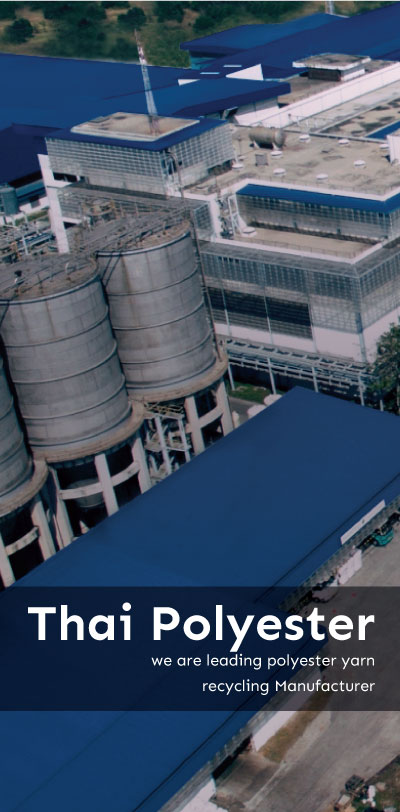
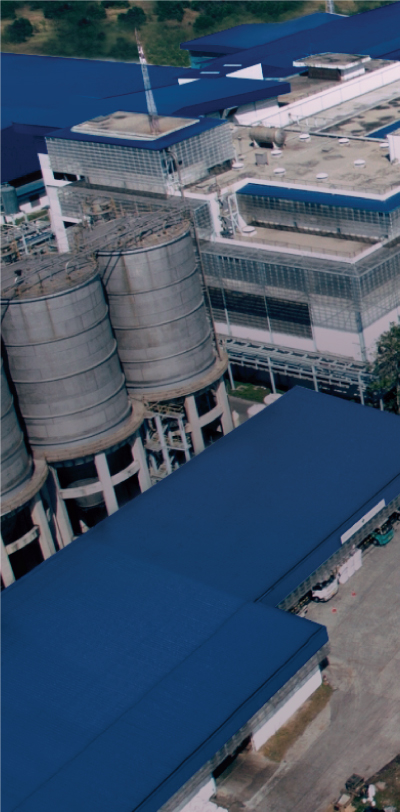
23-03-2022 11:11 By Boat

diff --git a/public/css/index.css b/public/css/index.css
@@ -40,9 +40,49 @@ span.highlight{
 #home .m-0{
 	margin: 0;
 }
+#home .m-auto{
+	margin: auto !important;
+}
+#home .mr-0{
+	margin: auto !important;
+    margin-right: 0 !important;
+}
+#home .d-flex{
+    display: flex !important;
+}
 
 	/*-------------------------------------End Setting All-------------------------------------*/
 
+#home .section-one .r1 .col1{
+    position: relative;
+}
+#home .section-one .r1 .col1 .banner-title-block{
+    position: absolute;
+    height: 100%;
+    width: 100%;
+    bottom: 0;
+}
+#home .section-one .r1 .col1 .banner-title-block > .title-group{
+    padding: 20px;
+    max-width: 45%;
+    min-width: 45%;
+}
+#home .section-one .r1 .col1:hover .banner-title-block > .title-group{
+    background-color: rgba(0,0,0,0.7);
+}
+#home .section-one .r1 .col1 .banner-title-block > .title-group h1{
+    color: var(--msBgLight);
+    font-size: 40px;
+    line-height: 55px;
+    text-align: right;
+}
+#home .section-one .r1 .col1 .banner-title-block > .title-group h2{
+    color: var(--msBgLight);
+    font-size: 30px;
+    line-height: 45px;
+    font-weight: normal;
+    text-align: right;
+}
 #home .section-one .r1 .col2{
 	display: flex;
 	position: relative;
@@ -50,10 +90,10 @@ span.highlight{
 #home .section-one .r1 .col1 .img_block1 img.img2{
 	display: none;
 }
-#home .section-one .r1 .col1 .img_block1:hover img.img1{
+#home .section-one .r1 .col1:hover .img_block1 img.img1{
 	display: none;
 }
-#home .section-one .r1 .col1 .img_block1:hover img.img2{
+#home .section-one .r1 .col1:hover .img_block1 img.img2{
 	display: block;
 }
 #home .section-one .r1 .col2 .content_1{
@@ -591,6 +631,18 @@ span.highlight{
 }
 
 @media only screen and (max-width: 991px){
+
+    #home .section-one .r1 .col1 .banner-title-block > .title-group h1{
+        font-size: 23px;
+        line-height: 27.5px;
+    }
+    #home .section-one .r1 .col1 .banner-title-block > .title-group h2{
+        font-size: 18px;
+        line-height: 22.5px;
+    }
+
+    /*-------------------------------------End Section One-------------------------------------*/
+
 	#home .section-eight .r1 .col1 .col1_2,
 	#home .section-eight .r1 .col1 .col1_3{
 		display: unset ;
@@ -610,6 +662,20 @@ span.highlight{
 
 	/*-------------------------------------End Setting All-------------------------------------*/
 
+    /* #home .section-one .r1 .col1 .banner-title-block > .title-group{
+        max-width: unset;
+        min-width: 100%;
+        background-color: rgba(0,0,0,0.7);
+        margin-bottom: 60px !important;
+    } */
+    #home .section-one .r1 .col1 .banner-title-block > .title-group h1{
+        font-size: 20px;
+        line-height: 27.5px;
+    }
+    #home .section-one .r1 .col1 .banner-title-block > .title-group h2{
+        font-size: 15px;
+        line-height: 22.5px;
+    }
 	#home .section-one .r1 .col2 .content_1{
 		padding: 20px;
 	}
@@ -753,4 +819,15 @@ span.highlight{
 	}
 
 	/*-------------------------------------End Section Two-------------------------------------*/
+}
+@media only screen and (max-width: 648px){
+
+    #home .section-one .r1 .col1 .banner-title-block > .title-group{
+        max-width: unset;
+        min-width: 100%;
+        background-color: rgba(0,0,0,0.7);
+        margin-bottom: 60px !important;
+    }
+
+    /*-------------------------------------End Section One-------------------------------------*/
 }

diff --git a/resources/views/index.blade.php b/resources/views/index.blade.php
@@ -4,8 +4,8 @@
 	<link rel="preload stylesheet" id="fancybox-css" href="{!!asset('/assets/custom/wp-content/plugins/radiantthemes-addons/assets/css/jquery.fancybox.min.css?ver=4.9.11')!!}" type="text/css" as="style" media="all" crossorigin>
 @endsection
 @section('content')
-	<h1 style="display: none;">Thai Polyester Company (TPC)</h1>
-	<h2 style="display: none;">We are a leading polyester yarn manufacturer in Thailand.</h2>
+	{{-- <h1 style="display: none;">Thai Polyester Company (TPC)</h1> --}}
+	{{-- <h2 style="display: none;">We are a leading polyester yarn manufacturer in Thailand.</h2> --}}
 	<div id="home">
 		<div id="home_bg">
 			<div class="section-one">
@@ -21,6 +21,14 @@
 								<img src="/assets/images/home/desktop/Head-Home-Thaipolyester-2.webp" width="900" height="350" class="img-fluid ab-img img2" alt="Head Home Thaipolyester">
 					        </picture>
 				    	</div>
+                        <div class="banner-title-block d-flex">
+                            <div class="title-group mr-0 d-flex">
+                                <div class="banner-title m-auto">
+                                    <h1>Thai Polyester Company (TPC)</h1>
+                                    <h2>We are a leading polyester yarn<br> manufacturer in Thailand.</h2>
+                                </div>
+                            </div>
+                        </div>
 					</div>
 					<div class="col-xs-12 col-sm-12 col-md-12 p-0 col2">
 						<div class="content_1">
